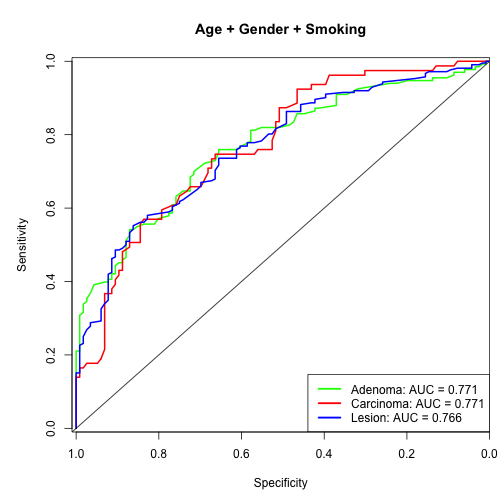
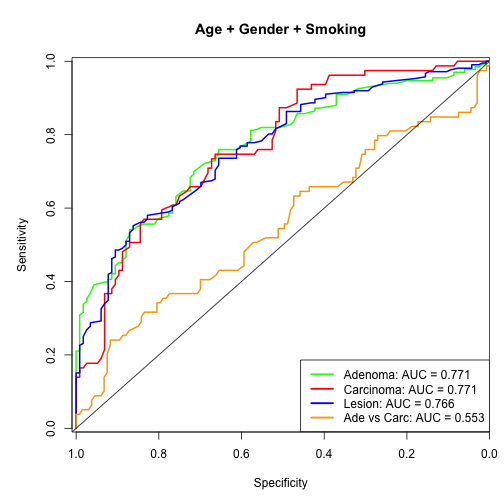
updated metadata post
also moved microbiome data Rmd file

diff --git a/_posts/2014-11-18-Models-with-Metadata.md b/_posts/2014-11-18-Models-with-Metadata.md
@@ -12,8 +12,7 @@ In an [earlier post](http://nbaxter13.github.io/2014/11/07/Updated-Models-for-CR
 
 
 ### Healthy vs. Carcinoma
-I'll start with models for distinguishing healthy patients from those with carcinomas.  I'll run models containing 1 to 5 risk factors, and look for the one 
-with the lowest conditional Akaike Information Criteria (AICc). The table below shows the 10 best models with 1 to 5 risk factors. The best model uses age, gender, and smoking, all of which are known risk factors for CRC ( [Gender](http://www.cancer.org/cancer/colonandrectumcancer/detailedguide/colorectal-cancer-key-statistics), [Age and Smoking](http://www.cancer.org/cancer/colonandrectumcancer/detailedguide/colorectal-cancer-risk-factors)).
+First I'll show the models for distinguishing healthy patients from those with carcinomas.  I ran models containing 1 to 5 risk factors, and looked for the one with the lowest conditional Akaike Information Criteria (AICc). The table below shows the 10 best models with 1 to 5 risk factors. The best model used age, gender, and smoking, all of which are known risk factors for CRC ( [Gender](http://www.cancer.org/cancer/colonandrectumcancer/detailedguide/colorectal-cancer-key-statistics), [Age and Smoking](http://www.cancer.org/cancer/colonandrectumcancer/detailedguide/colorectal-cancer-risk-factors)).
 
 
 |Model                                     |AICc   |
@@ -33,7 +32,7 @@ with the lowest conditional Akaike Information Criteria (AICc). The table below 
   
 
 ### Healthy vs. Adenoma
-Now I'll do the same thing, but for adenomas.  The best model uses age, BMI, diabetes medication, gender, and smoking.  This model is only slightly better than the same model without diabetes medication.  
+Next I did the same thing, but for adenomas.  The best model again used age, gender and smoking, but also included BMI and diabetes medication.  That model was only slightly better than the same model without diabetes medication.  
 
 
 |Model                                     |AICc   |
@@ -52,7 +51,7 @@ Now I'll do the same thing, but for adenomas.  The best model uses age, BMI, dia
   
 
 ### Healthy vs. Lesion
-Finally, I'll test models for distinguishing healthy individuals from those with any type of lesion(i.e. adenomas OR caricnomas). Like the carcinoma models, the best model for detecting any type of lesion also uses age, gender, and smoking.
+Finally, I tested models for distinguishing healthy individuals from those with any type of lesion (i.e. adenomas OR caricnomas). Like the carcinoma models, the best model for detecting any type of lesion also used age, gender, and smoking.
 
 
 |Model                                     |AICc   |
@@ -70,11 +69,14 @@ Finally, I'll test models for distinguishing healthy individuals from those with
 
 
 ### ROC Curves Using Metadata Models
-Next, I want to use these models to generate ROC curves.  Since all of the best models use age, gender, and smoking, I decided to only use those parameters in the models. (Note: I did also try the optimal adenoma model that included BMI and diabetes meds, but the AUC of the ROC curve wasn't significantly different from the model with just age, gender, and smoking)
+Next, I wanted to use these models to generate ROC curves.  Since all of the best models use age, gender, and smoking, I decided to only use those three parameters in the models. (Note: I did also try the optimal adenoma model that included BMI and diabetes meds, but the AUC of the ROC curve wasn't significantly different from the model with just age, gender, and smoking)
 
 ![center](/../figs/2014-11-18-Models-with-Metadata/roc-1.png) 
-  
-  
+
+UPDATE: As Pat requested, I've added the model for Adenoma vs. Carcinoma
+
 ####Conclusion
 Surprisingly, all three comparison have very similar ROC curves despite their different AICc values.  I suspect that's due to each having a different n. Now that I have models using patient metadata, my next step will be to combine them with the microbiome data and FIT results. Considering how good these models and the OTU models were, I expect have very good models when I combine them all together.
+
+
 
